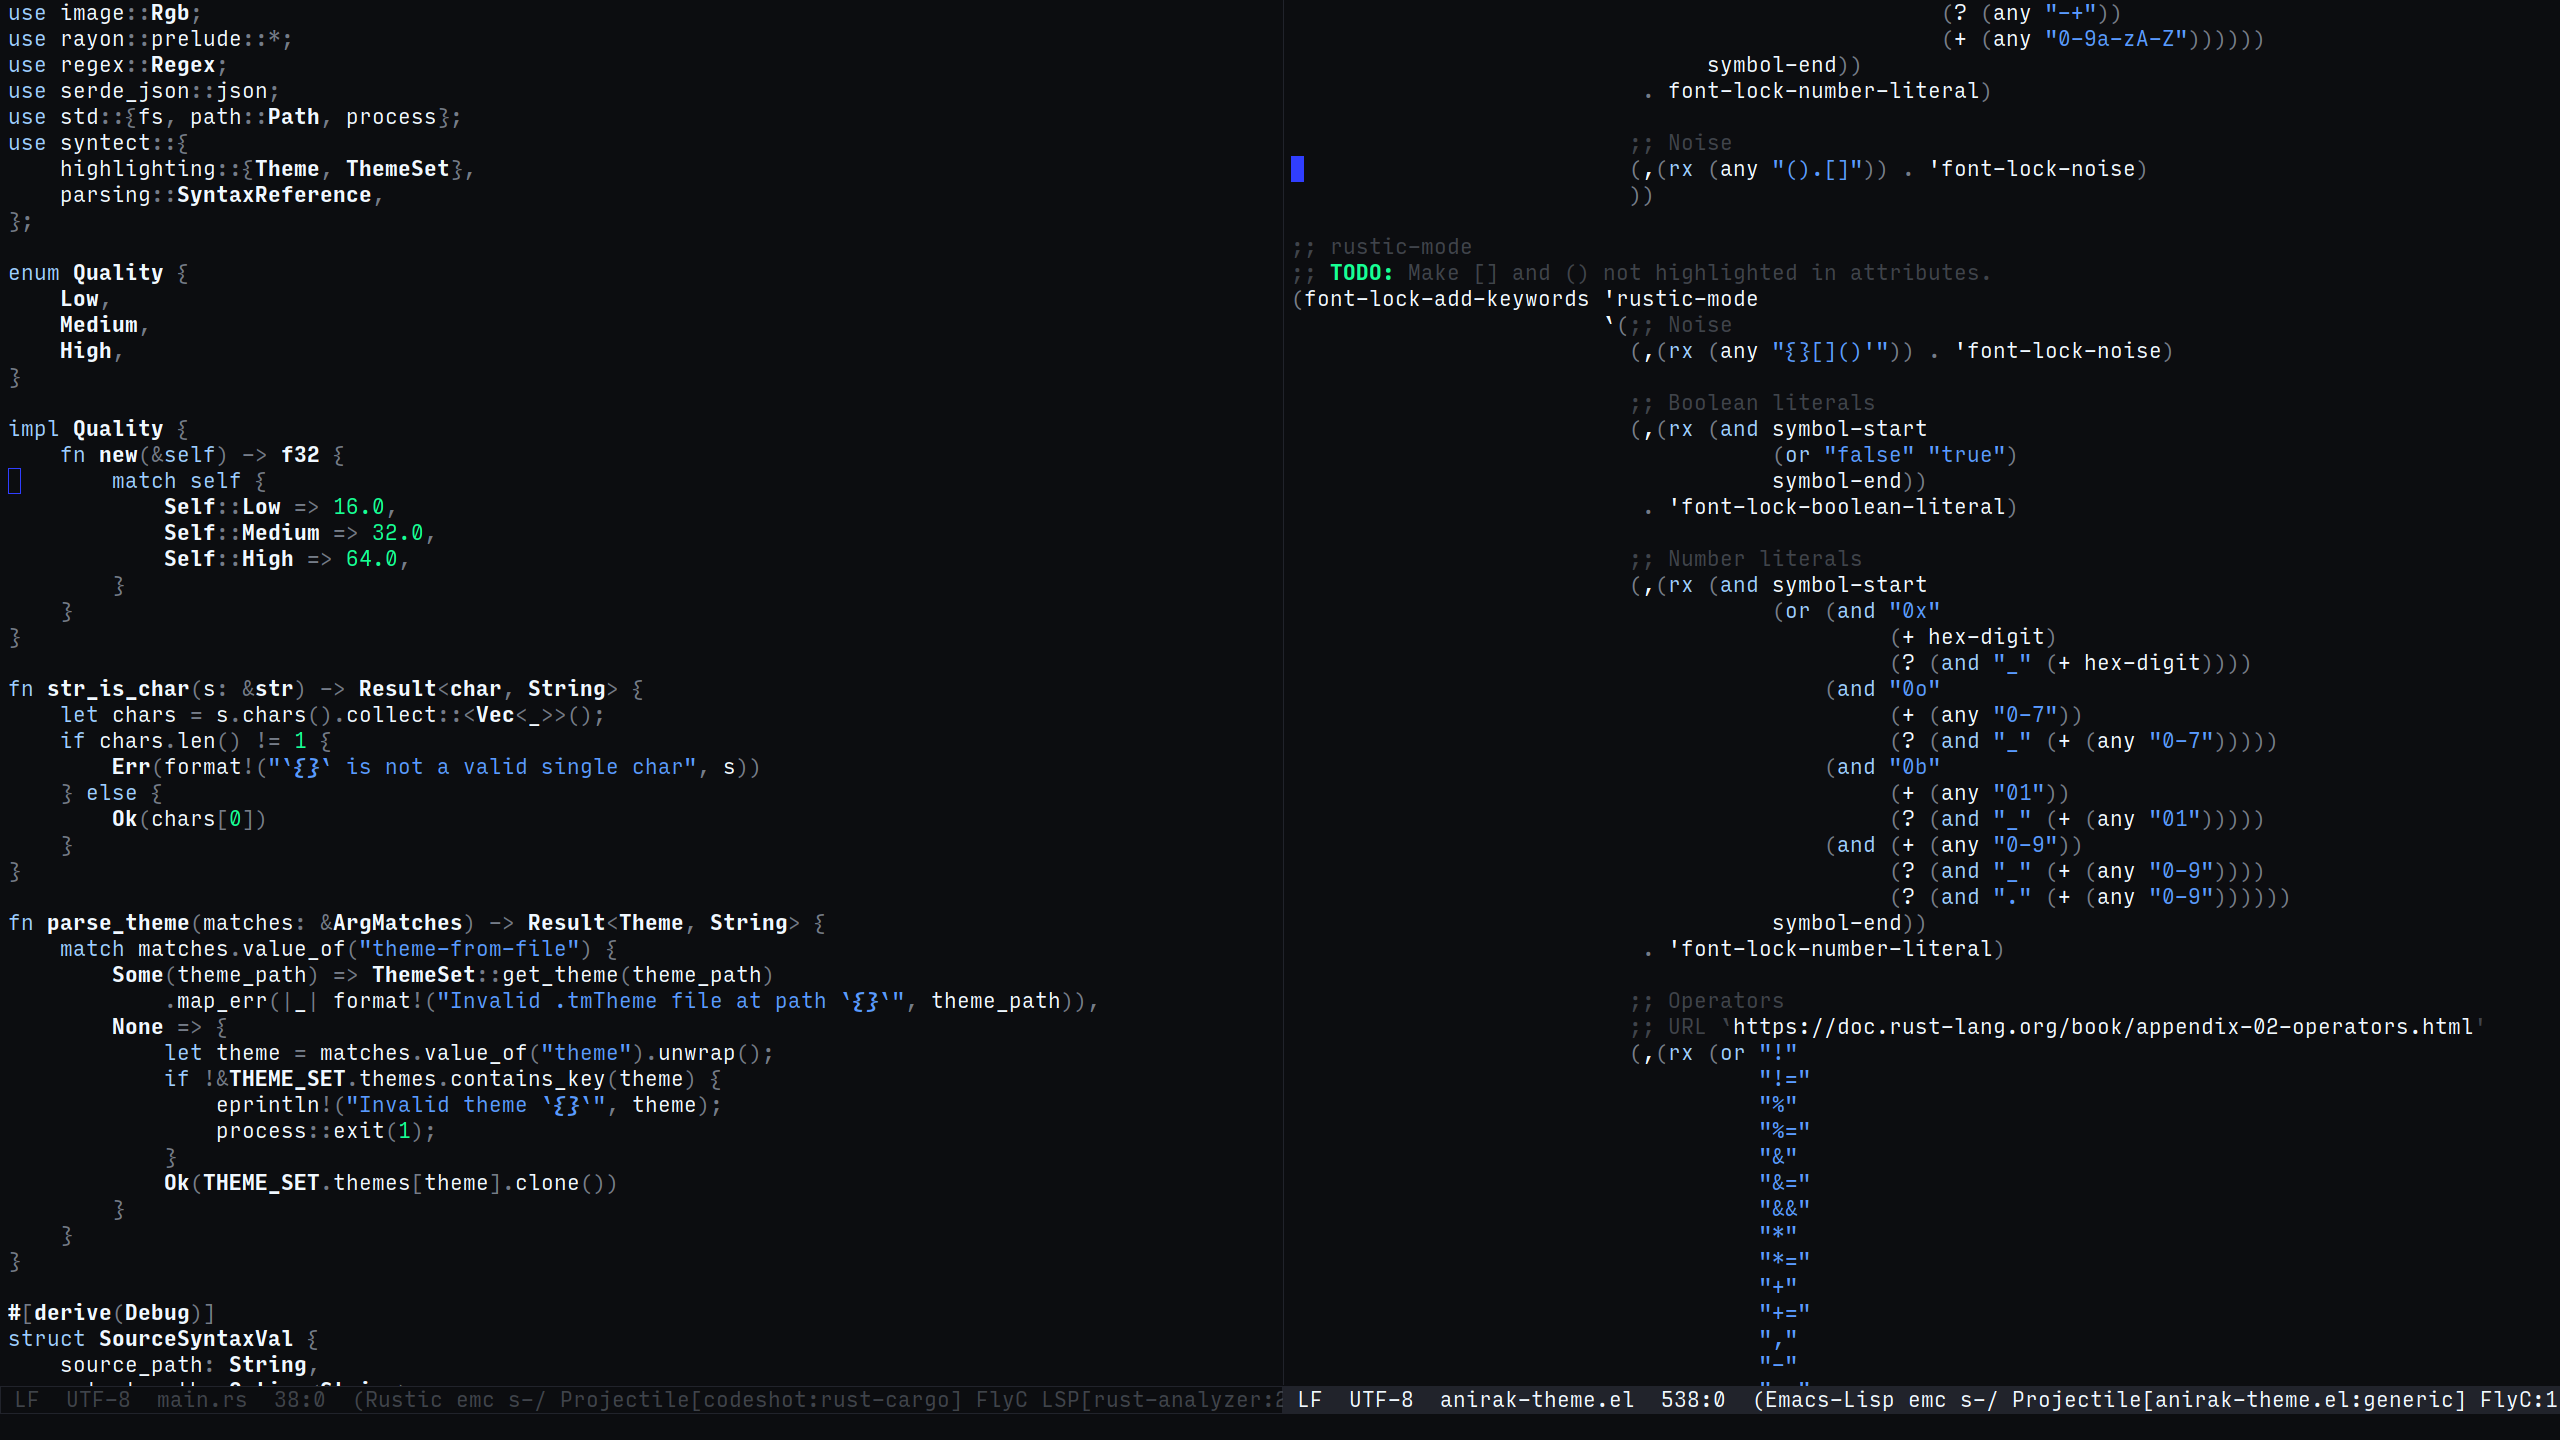
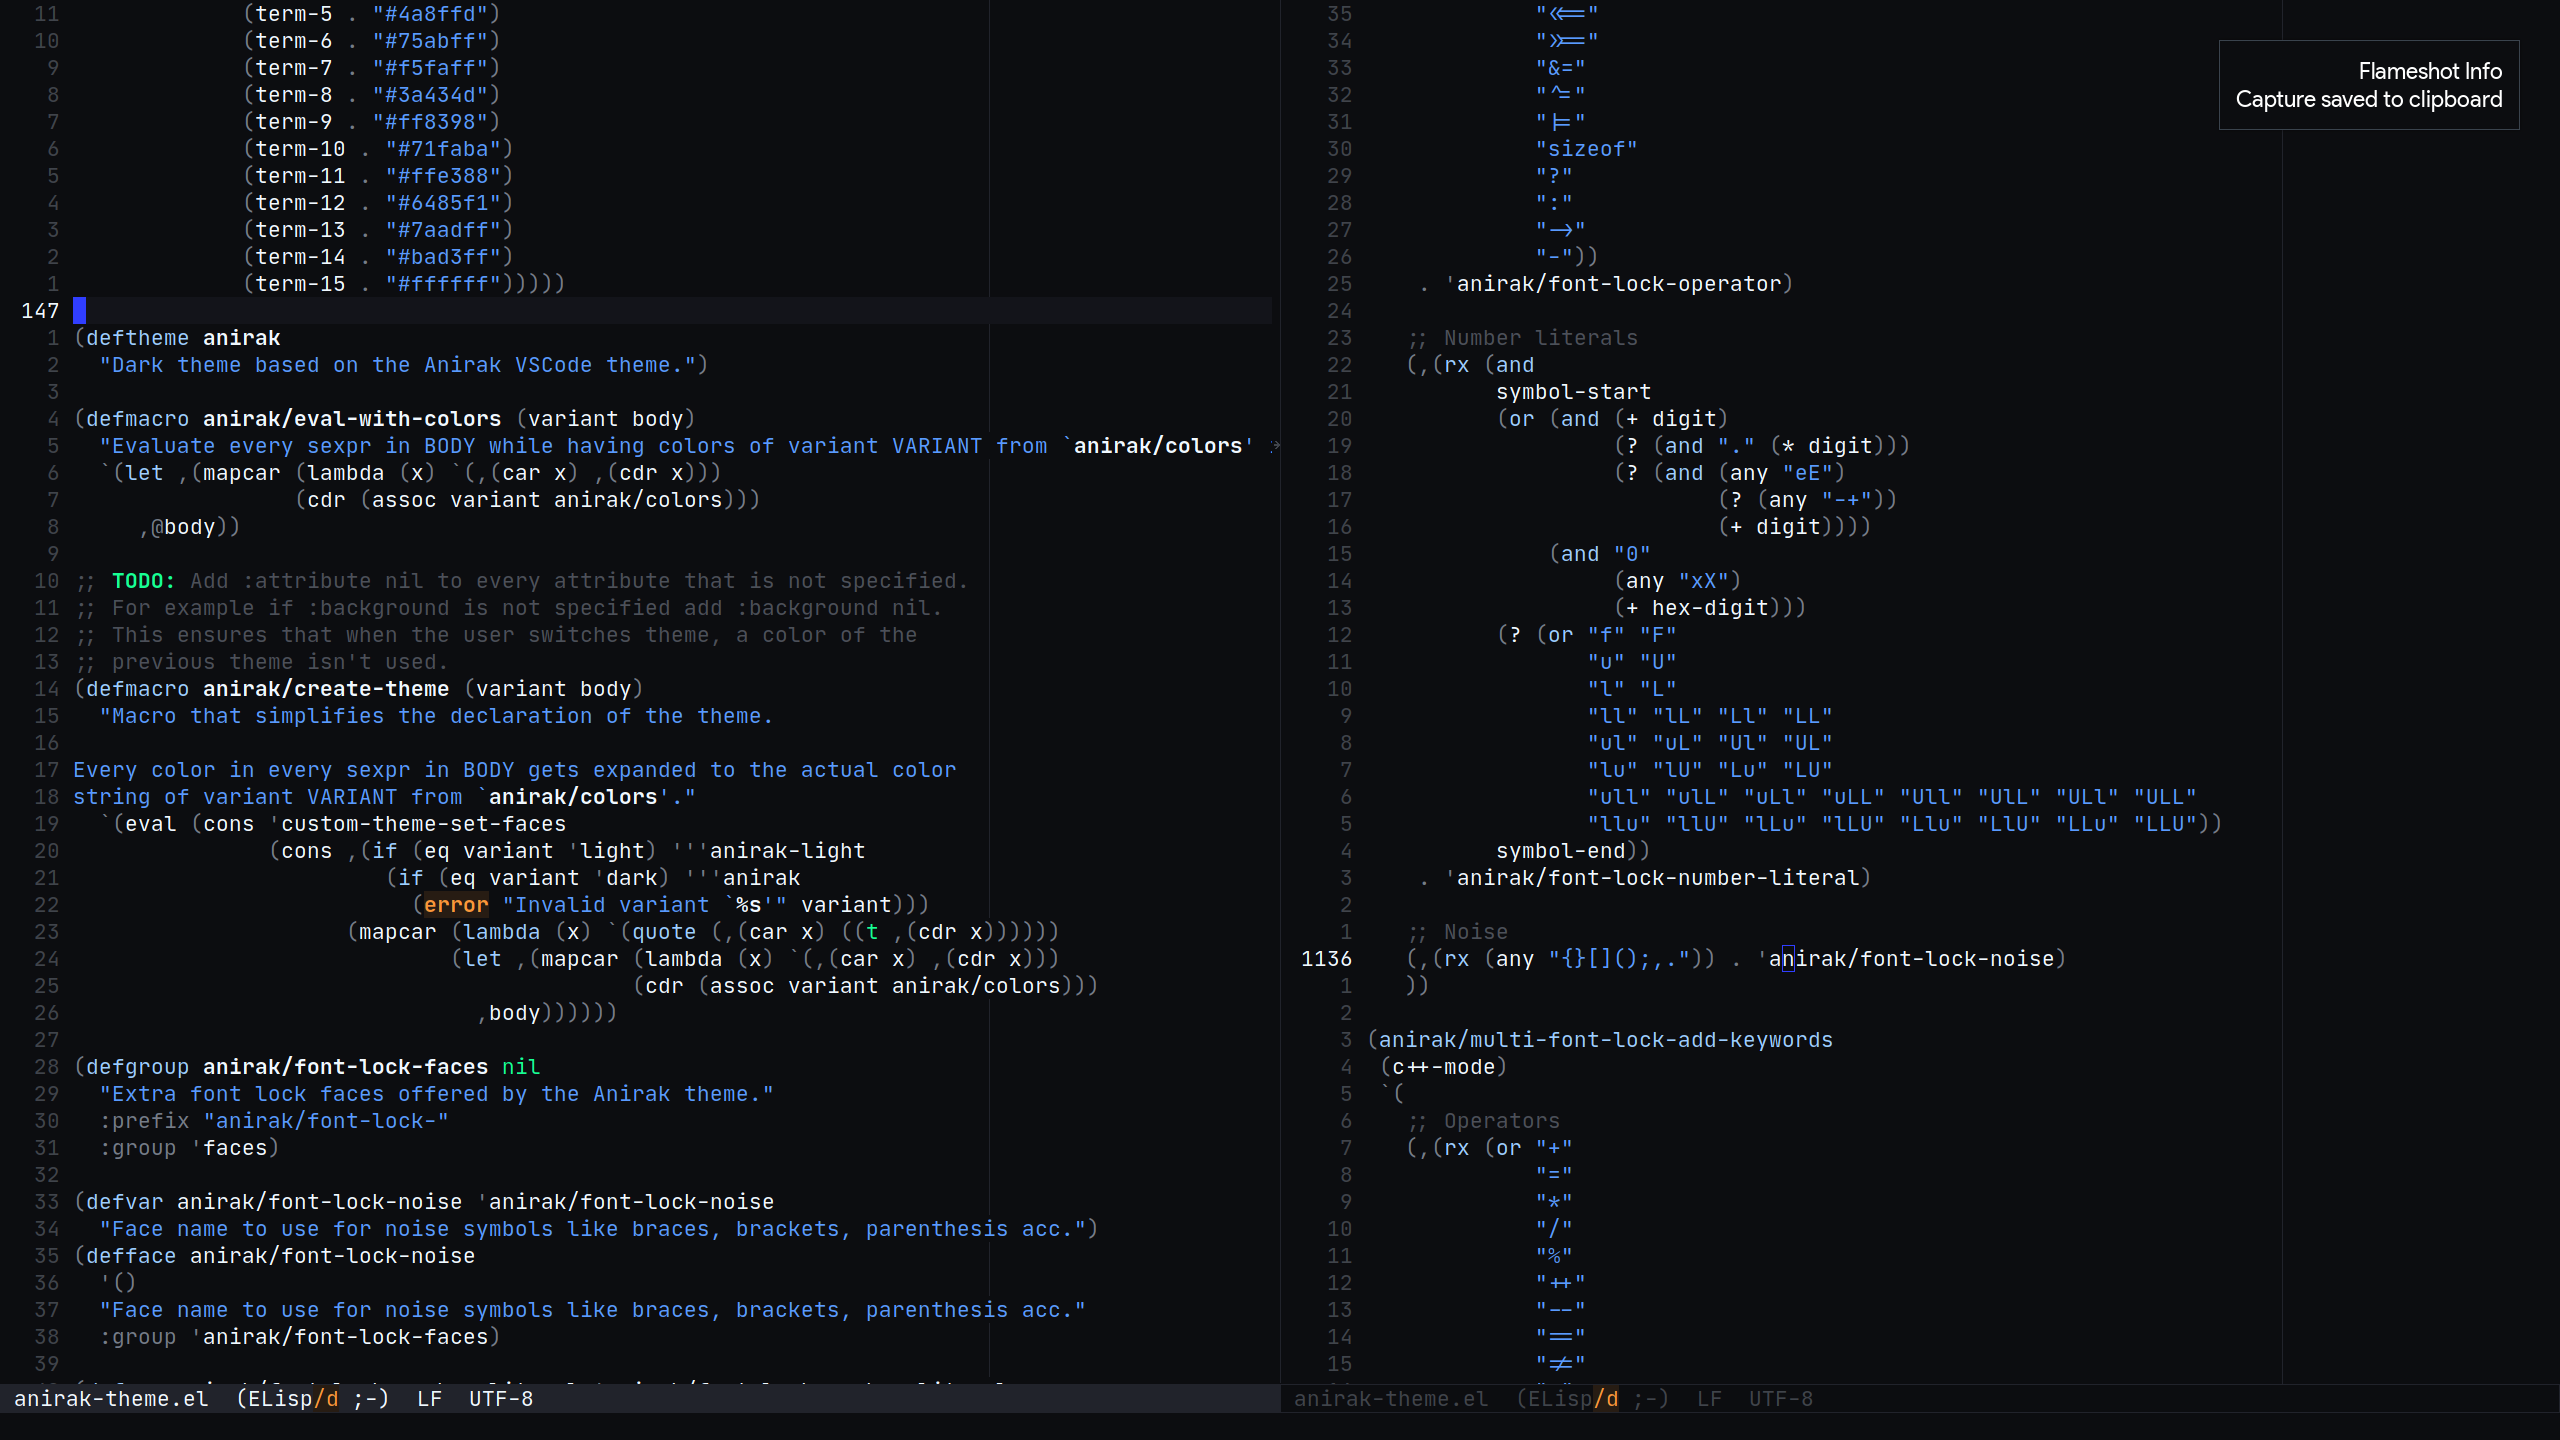
Update README.md and screenshot

diff --git a/README.md b/README.md
@@ -2,9 +2,10 @@
 
 Dark theme based on the [Anirak VSCode theme](https://github.com/barjoco/anirak) by [barjoco](https://github.com/barjoco).  
 Many thanks to [NerdyPepper](https://github.com/NerdyPepper) that influenced my taste in colorschemes with [this article](https://peppe.rs/posts/color_conundrum/).
+Forever grateful to [museun](https://www.twitch.tv/museun) who made me discover this theme.
 
 ## Screenshots
 
 ![Screenshot no. 1](./screenshots/1.png)
 
-The font in the screenshot is [Input Mono Narrow](https://input.fontbureau.com/).
+The font in the screenshot is [JetBrains Mono](https://www.jetbrains.com/lp/mono/).
